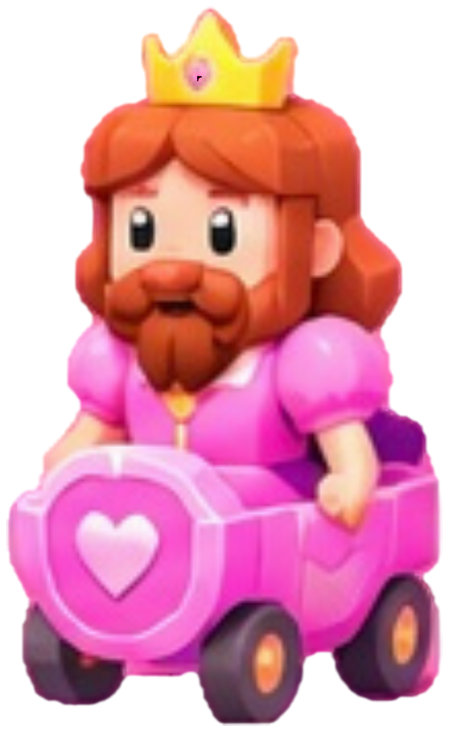
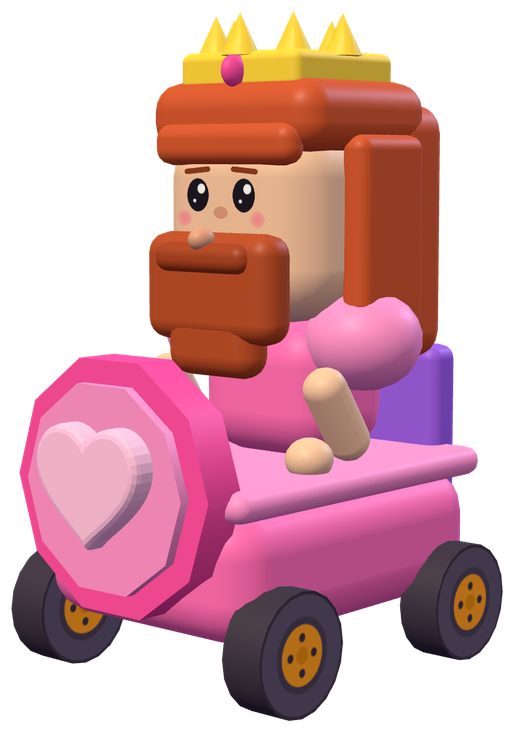
Block Racers: character makeover (Conejo Malo, Chadrilla, Princess Tagliani, Coca-Cola Ice Racer)
- Bunny -> CONEJO MALO: evil crazy face (bloodshot mismatched eyes, dark
  circles, droopy angry lids, V brows, crooked sharp-toothed grin with a gold
  tooth, stitched scar), dirtier fur and one bent ear
- Gorilla -> CHADRILLA: spiky green hair
- Princess -> PRINCESS TAGLIANI (name only)
- Ice Racer: Coca-Cola logo decals on the car sides and front, and always
  chugging a contour Coca-Cola bottle held to its mouth (animated sips);
  bottle is added after size normalization so the kart keeps its size
- Selection cards (TV and phone) now use renders of the new 3D models;
  long names shrink to fit
- Lobster script font (OFL) bundled for the logo text
- Version badge v6

Claude-Session: https://claude.ai/code/session_01TGnJyy4oqeZFghcKrCu8bs

diff --git a/game/public/tv/js/models.js b/game/public/tv/js/models.js
@@ -70,17 +70,64 @@ function blush(c, x, y, r) {
 }
 
 const FACES = {
+  // CONEJO MALO: ojos de loco (uno mas grande), venitas rojas, ojeras, parpados caidos
+  // en V, cejas de enojado, sonrisa torcida con dientes filosos y una cicatriz
   rabbit: () => faceTexture((c) => {
-    eye(c, 76, 134, 36, 44);
-    eye(c, 180, 134, 36, 44);
-    blush(c, 44, 190, 30); blush(c, 212, 190, 30);
-    c.fillStyle = '#ff7fa0';
-    c.beginPath(); c.ellipse(128, 176, 14, 10, 0, 0, Math.PI * 2); c.fill();
-    // boca abierta sonriente con lengua
-    c.fillStyle = '#5a1b2a';
-    c.beginPath(); c.moveTo(102, 194); c.quadraticCurveTo(128, 244, 154, 194); c.closePath(); c.fill();
-    c.fillStyle = '#ff6f8c';
-    c.beginPath(); c.ellipse(128, 222, 13, 9, 0, 0, Math.PI * 2); c.fill();
+    const FUR = '#EAE4DF';
+    [[76, 136, 1], [180, 134, -1]].forEach(([x, y]) => {
+      const g = c.createRadialGradient(x, y + 16, 8, x, y + 16, 58);
+      g.addColorStop(0, 'rgba(90,40,110,0.75)'); g.addColorStop(1, 'rgba(90,40,110,0)');
+      c.fillStyle = g; c.beginPath(); c.ellipse(x, y + 16, 58, 54, 0, 0, Math.PI * 2); c.fill();
+    });
+    const badEye = (x, y, rx, ry, iris, side) => {
+      c.save();
+      c.beginPath(); c.ellipse(x, y, rx, ry, 0, 0, Math.PI * 2); c.clip();
+      c.fillStyle = '#FFF4CF'; c.fillRect(x - rx, y - ry, rx * 2, ry * 2);
+      c.strokeStyle = '#D8323C'; c.lineWidth = 2.4;
+      for (let i = 0; i < 9; i++) {
+        const a = (i / 9) * Math.PI * 2 + 0.3, r0 = rx * 1.05, r1 = rx * (0.45 + (i % 3) * 0.1);
+        c.beginPath(); c.moveTo(x + Math.cos(a) * r0, y + Math.sin(a) * r0 * (ry / rx));
+        c.quadraticCurveTo(x + Math.cos(a + 0.2) * (r0 + r1) / 2, y + Math.sin(a + 0.25) * (r0 + r1) / 2 * (ry / rx), x + Math.cos(a) * r1, y + Math.sin(a) * r1 * (ry / rx));
+        c.stroke();
+      }
+      c.fillStyle = '#C8102E'; c.beginPath(); c.arc(x + side * rx * 0.12, y + ry * 0.1, rx * iris, 0, Math.PI * 2); c.fill();
+      c.fillStyle = '#10080c'; c.beginPath(); c.arc(x + side * rx * 0.12, y + ry * 0.1, rx * iris * 0.28, 0, Math.PI * 2); c.fill();
+      c.fillStyle = '#ffffff'; c.beginPath(); c.arc(x + side * rx * 0.12 - rx * 0.12, y - ry * 0.05, rx * 0.07, 0, Math.PI * 2); c.fill();
+      // parpado de arriba caido, mas bajo del lado de adentro (mirada de malo)
+      c.fillStyle = FUR;
+      c.beginPath();
+      const inner = side > 0 ? x + rx : x - rx, outer = side > 0 ? x - rx : x + rx;
+      c.moveTo(outer, y - ry * 0.3); c.lineTo(inner, y + ry * 0.12); c.lineTo(inner, y - ry - 2); c.lineTo(outer, y - ry - 2); c.closePath(); c.fill();
+      c.restore();
+      c.strokeStyle = '#2a1a22'; c.lineWidth = 5; c.lineCap = 'round';
+      c.beginPath(); c.moveTo(outer, y - ry * 0.3); c.lineTo(inner, y + ry * 0.12); c.stroke();
+      c.lineWidth = 4; c.beginPath(); c.ellipse(x, y, rx, ry, 0, 0, Math.PI * 2); c.stroke();
+    };
+    badEye(76, 132, 40, 42, 0.36, 1);
+    badEye(182, 130, 30, 33, 0.3, -1);
+    // cejas gruesas en V
+    c.strokeStyle = '#2a1a22'; c.lineWidth = 13; c.lineCap = 'round';
+    c.beginPath(); c.moveTo(34, 74); c.lineTo(112, 100); c.stroke();
+    c.beginPath(); c.moveTo(222, 78); c.lineTo(150, 98); c.stroke();
+    // nariz
+    c.fillStyle = '#E86A8E';
+    c.beginPath(); c.moveTo(116, 170); c.lineTo(140, 170); c.lineTo(128, 184); c.closePath(); c.fill();
+    // sonrisa torcida con dientes filosos
+    c.fillStyle = '#2B0F18';
+    c.beginPath(); c.moveTo(70, 196); c.quadraticCurveTo(120, 214, 194, 188); c.quadraticCurveTo(150, 246, 96, 226); c.closePath(); c.fill();
+    c.fillStyle = '#FFFBEA';
+    for (let i = 0; i < 7; i++) {
+      const t0 = i / 7, t1 = (i + 1) / 7;
+      const px = (t) => 70 + (194 - 70) * t, py = (t) => 196 + (188 - 196) * t + Math.sin(t * Math.PI) * 10;
+      c.beginPath(); c.moveTo(px(t0), py(t0)); c.lineTo(px(t1), py(t1)); c.lineTo((px(t0) + px(t1)) / 2, py(t0) + 16); c.closePath(); c.fill();
+    }
+    c.fillStyle = '#FFD93D'; // diente de oro
+    c.beginPath(); c.moveTo(141, 202); c.lineTo(158, 199); c.lineTo(150, 215); c.closePath(); c.fill();
+    // cicatriz con puntos
+    c.strokeStyle = '#C0506A'; c.lineWidth = 5;
+    c.beginPath(); c.moveTo(200, 164); c.lineTo(240, 212); c.stroke();
+    c.lineWidth = 3;
+    for (let i = 0; i < 4; i++) { const t = 0.15 + i * 0.23, x = 200 + 40 * t, y = 164 + 48 * t; c.beginPath(); c.moveTo(x - 9, y + 7); c.lineTo(x + 9, y - 7); c.stroke(); }
   }),
   gorilla: () => faceTexture((c) => {
     // hocico: fosas nasales + sonrisa canchera
@@ -122,6 +169,54 @@ const FACES = {
     roundRect(c, 104, 190, 48, 12, 6); c.fill();
   }),
 };
+
+// ---------- Coca-Cola: logo pintado (letra cursiva + cinta) y botella de vidrio ----------
+function cokeLogo() {
+  return canvasTexture(512, 144, (c, w, h) => {
+    c.fillStyle = '#E4002B'; roundRect(c, 0, 0, w, h, 26); c.fill();
+    c.strokeStyle = '#ffffff'; c.lineWidth = 6; roundRect(c, 8, 8, w - 16, h - 16, 20); c.stroke();
+    c.fillStyle = '#ffffff';
+    c.font = '92px "Lobster", "Brush Script MT", cursive';
+    c.textAlign = 'center'; c.textBaseline = 'middle';
+    c.fillText('Coca-Cola', w / 2, h / 2 - 8);
+    // cinta blanca ondulada abajo
+    c.beginPath(); c.moveTo(60, h - 30);
+    c.bezierCurveTo(180, h - 60, 300, h - 4, 452, h - 36);
+    c.lineTo(452, h - 26); c.bezierCurveTo(300, h + 6, 180, h - 48, 60, h - 22); c.closePath(); c.fill();
+  });
+}
+function cokeLabel() {
+  const t = canvasTexture(512, 96, (c, w, h) => {
+    c.fillStyle = '#E4002B'; c.fillRect(0, 0, w, h);
+    c.fillStyle = '#ffffff';
+    c.font = '60px "Lobster", "Brush Script MT", cursive';
+    c.textAlign = 'center'; c.textBaseline = 'middle';
+    c.fillText('Coca-Cola', w * 0.25, h / 2);
+    c.fillText('Coca-Cola', w * 0.75, h / 2);
+  });
+  return t;
+}
+function cokeBottle(riderGroup) {
+  // botella contorneada: el pico en la boca del robot y el fondo levantado hacia
+  // adelante y al costado (se la esta tomando). El grupo gira sobre la boca para los tragos.
+  const mouth = new THREE.Vector3(54, 286, 4), base = new THREE.Vector3(114, 390, 30);
+  const g = new THREE.Group();
+  const glass = new THREE.Mesh(lathe([[0, 0], [23, 0], [26, 6], [26, 24], [21, 38], [25, 54], [26, 66], [19, 84], [11, 100], [9, 116], [11, 120], [0, 121]], 14),
+    new THREE.MeshStandardMaterial({ color: '#4a1410', roughness: 0.12, metalness: 0.15, emissive: '#200404' }));
+  glass.castShadow = true;
+  const label = new THREE.Mesh(new THREE.CylinderGeometry(27.5, 27.5, 24, 14, 1, true), new THREE.MeshStandardMaterial({ map: cokeLabel(), roughness: 0.4 }));
+  label.position.y = 58;
+  const inner = new THREE.Group();
+  inner.add(glass, label);
+  inner.position.y = -121;
+  g.add(inner);
+  g.position.copy(mouth);
+  g.quaternion.setFromUnitVectors(new THREE.Vector3(0, 1, 0), mouth.clone().sub(base).normalize());
+  g.scale.setScalar(1.3);
+  g.userData.baseQ = g.quaternion.clone();
+  riderGroup.add(g);
+  return { bottle: g };
+}
 
 // ---------- ruedas: 4 cilindros en UNA malla; el giro es la textura de la llanta rotando ----------
 function wheelTexture(tire, hub, rim) {
@@ -236,16 +331,19 @@ const BUILDERS = {
       car.ball(22, 88, 44, i % 2 ? GR : GRD, -178 + Math.sin(a) * 40, 196 + Math.cos(a) * 30, tilt * 58, tilt, 0, a);
     });
     // conejo: cabeza cubica grande apoyada sobre la zanahoria, patitas adelante
-    const W = '#FFF8F2', PK = '#FF9EC0';
+    const W = '#EAE4DF', PK = '#E77FA0';
     rider.box(110, 70, 90, W, -20, 196, 0);
     rider.ball(24, 18, 24, W, 44, 196, 44);
     rider.ball(24, 18, 24, W, 44, 196, -44);
     rider.box(176, 156, 152, W, -14, 288, 0, 0, 0, 0, 0.3);
     rider.ball(26, 26, 26, W, -104, 236, 0);
-    [1, -1].forEach((s) => {
-      rider.box(50, 150, 32, W, -26, 420, s * 46, s * 0.24, 0, -0.1, 0.5);
-      rider.box(28, 104, 6, PK, -9, 414, s * 46, s * 0.24, 0, -0.1, 0.5);
-    });
+    // una oreja parada y la otra doblada para adelante (mordida en la punta)
+    rider.box(50, 150, 32, W, -26, 420, 46, 0.24, 0, -0.1, 0.5);
+    rider.box(28, 104, 6, PK, -9, 414, 46, 0.24, 0, -0.1, 0.5);
+    rider.box(50, 84, 32, W, -26, 392, -46, -0.24, 0, -0.1, 0.5);
+    rider.box(28, 60, 6, PK, -9, 390, -46, -0.24, 0, -0.1, 0.5);
+    rider.box(44, 76, 30, W, 4, 424, -56, -0.24, 0, -1.9, 0.5);
+    rider.box(26, 52, 6, PK, 6, 414, -56, -0.24, 0, -1.9, 0.5);
     return {
       car, rider, face: { tex: FACES.rabbit(), w: 150, h: 140, x: 62, y: 282, z: 0 },
       wheels: { spots: [[104, 90], [104, -90], [-104, 90], [-104, -90]], r: 44, w: 32, tire: '#24222c', hub: '#F4E3C8', rim: '#3a3642' },
@@ -272,7 +370,16 @@ const BUILDERS = {
     rider.box(128, 88, 22, TAN, 36, 284, 0, 0, 0, 0, 0.45);
     rider.box(110, 60, 50, TAN2, 52, 258, 0, 0, 0, 0, 0.5);
     [1, -1].forEach((s) => rider.ball(20, 26, 14, '#B07B55', -28, 292, s * 80));
-    [-0.45, 0, 0.45].forEach((a, i) => rider.cone(15, 34, DK, -44 + i * 8, 372, a * 56, a, 0, 0.35));
+    // CHADRILLA: pelo verde parado y desordenado
+    const HG = '#3BE36B', HG2 = '#1FB04A';
+    rider.box(150, 34, 116, HG2, -26, 372, 0, 0, 0, 0, 0.4);
+    let hk = 0;
+    [-66, -36, -6, 24].forEach((hx, ix) => [-54, -18, 18, 54].forEach((hz) => {
+      const tiltX = hz / 54 * 0.45, tiltZ = 0.25 + ix * 0.12;
+      rider.cone(20 + (hk % 3) * 3, 62 + ((hk * 7) % 5) * 9, hk % 2 ? HG : HG2, hx, 404, hz, tiltX, 0, tiltZ);
+      hk++;
+    }));
+    void DK;
     // anteojos azules grandes
     [1, -1].forEach((s) => {
       rider.box(64, 44, 14, '#2F6BFF', 52, 308, s * 34, 0, 0, 0, 0.3);
@@ -337,16 +444,23 @@ const BUILDERS = {
     ice.sharpBox(126, 92, 30, I4, -118, 150, 0);
     // robot de cristal
     ice.sharpBox(120, 92, 92, I1, -40, 196, 0);
-    [1, -1].forEach((s) => {
-      ice.sharpBox(40, 40, 96, I2, 6, 186, s * 72, 0, 0, -0.4);
-      ice.sharpBox(42, 38, 42, I3, 50, 162, s * 68);
-    });
+    ice.sharpBox(40, 40, 96, I2, 6, 186, -72, 0, 0, -0.4);
+    ice.sharpBox(42, 38, 42, I3, 50, 162, -68);
+    // el otro brazo levantado: siempre con la botella de Coca-Cola en la boca
+    ice.sharpBox(40, 40, 164, I2, 45, 298, 67, 0, 0.34, 0.81);
+    ice.sharpBox(44, 44, 44, I3, 100, 356, 48);
     ice.add(new RoundedBoxGeometry(134, 124, 140, 2, 22), I3, -24, 300, 0);
     [1, -1].forEach((s) => ice.cyl(16, 16, 16, I4, -24, 302, s * 74, Math.PI / 2, 0, 0, 10));
     // visor oscuro ancho
     rider.box(132, 70, 20, '#1F3FB0', 38, 304, 0, 0, 0, 0, 0.45);
     return {
       car: null, rider, ice, face: { tex: FACES.ice(), w: 128, h: 72, x: 48, y: 304, z: 0 },
+      decals: [
+        { tex: cokeLogo(), w: 200, h: 54, x: 0, y: 74, z: 89.5, ry: 0 },
+        { tex: cokeLogo(), w: 200, h: 54, x: 0, y: 74, z: -89.5, ry: Math.PI },
+        { tex: cokeLogo(), w: 150, h: 42, x: 126, y: 70, z: 0, ry: Math.PI / 2 },
+      ],
+      extra: cokeBottle,
       wheels: { spots: [[92, 90], [92, -90], [-92, 90], [-92, -90]], r: 42, w: 30, tire: '#2F5FE0', hub: '#CFF4FF', rim: '#3a6ff0' },
     };
   },
@@ -400,6 +514,13 @@ export function buildCharacterModel(character) {
     plane.rotation.y = Math.PI / 2;
     riderGroup.add(plane);
   });
+  (d.decals || []).forEach((f) => {
+    const dm = new THREE.MeshStandardMaterial({ map: f.tex, roughness: 0.4, polygonOffset: true, polygonOffsetFactor: -4 });
+    const plane = new THREE.Mesh(new THREE.PlaneGeometry(f.w, f.h), dm);
+    plane.position.set(f.x, f.y, f.z);
+    plane.rotation.y = f.ry || 0;
+    roll.add(plane);
+  });
   const wd = d.wheels;
   const wheels = buildWheels(wd.spots, wd.r, wd.w, wd.tire, wd.hub, wd.rim);
   roll.add(wheels);
@@ -410,5 +531,7 @@ export function buildCharacterModel(character) {
   roll.scale.setScalar(k);
   roll.position.y = -box.min.y * k;
   roll.userData.baseY = roll.position.y;
-  return { root, roll, riderGroup, wheels, mats, scale: k };
+  // extras (la botella) despues de normalizar: no cambian el tamaño del kart
+  const extra = d.extra ? d.extra(riderGroup) : {};
+  return { root, roll, riderGroup, wheels, mats, scale: k, bottle: extra.bottle || null };
 }

diff --git a/game/public/controller/index.html b/game/public/controller/index.html
@@ -34,7 +34,8 @@
     display:flex; flex-direction:column; align-items:center; justify-content:flex-end; box-shadow:0 6px 0 rgba(0,0,0,.35), inset 0 4px 0 rgba(255,255,255,.35); }
   #selCard::before { content:''; position:absolute; top:0; right:0; bottom:0; left:0; background:radial-gradient(circle at 50% 30%, rgba(255,255,255,.45), rgba(255,255,255,0) 60%); }
   #selImg { position:absolute; bottom:58px; height:calc(100% - 80px); max-width:92%; object-fit:contain; left:50%; transform:translateX(-50%); filter:drop-shadow(0 6px 4px rgba(0,0,0,.35)); }
-  #selName { position:relative; font-size:20px; line-height:1; margin-bottom:4px; }
+  #selName { position:relative; font-size:20px; line-height:1; margin-bottom:4px; text-align:center; padding:0 6px; }
+  #selName.long { font-size:16px; }
   #selPower { position:relative; width:100%; text-align:center; font-size:13px; padding:5px 0 7px; background:rgba(32,32,48,.55); }
   .selArrow { position:absolute; top:40%; font-size:26px; color:var(--yellow); z-index:2; }
   #selHint { margin-top:8px; font-family:'Fredoka', sans-serif; font-weight:600; font-size:13px; text-align:center; opacity:.9; }
@@ -117,9 +118,9 @@
 <script src="/socket.io/socket.io.js"></script>
 <script>
   const INFO = {
-    rabbit: { name: 'BUNNY', power: 'GIANT CARROT', sprite: 'bunny', icon: 'pw_carrot', card: ['#FFB23E', '#FF7A1A'] },
-    gorilla: { name: 'BANANA GORILLA', power: 'BANANA PEEL', sprite: 'gorilla', icon: 'pw_gorilla_banana', card: ['#FFE45C', '#FFC21A'] },
-    princess: { name: 'PRINCESS ROSE', power: 'POISON FLOWERS', sprite: 'princess', icon: 'pw_flower', card: ['#FF8FD0', '#F04FA8'] },
+    rabbit: { name: 'CONEJO MALO', power: 'GIANT CARROT', sprite: 'bunny', icon: 'pw_carrot', card: ['#FFB23E', '#FF7A1A'] },
+    gorilla: { name: 'CHADRILLA', power: 'BANANA PEEL', sprite: 'gorilla', icon: 'pw_gorilla_banana', card: ['#FFE45C', '#FFC21A'] },
+    princess: { name: 'PRINCESS TAGLIANI', power: 'POISON FLOWERS', sprite: 'princess', icon: 'pw_flower', card: ['#FF8FD0', '#F04FA8'] },
     ice: { name: 'ICE RACER', power: 'FREEZE TRACK', sprite: 'ice', icon: 'pw_freeze', card: ['#6FC2FF', '#2F7BFF'] },
   };
   const ITEM_HTML = {
@@ -202,6 +203,7 @@
         $('selImg').src = '/assets/chars/' + info.sprite + '_right.png';
         $('selCard').style.background = 'linear-gradient(180deg,' + info.card[0] + ',' + info.card[1] + ')';
         $('selName').textContent = info.name;
+        $('selName').classList.toggle('long', info.name.length > 12);
         $('selPower').textContent = info.power;
         last.char = s.character;
       }

diff --git a/game/public/tv/index.html b/game/public/tv/index.html
@@ -7,6 +7,7 @@
 <link rel="preload" href="/assets/fonts/LilitaOne.woff2" as="font" type="font/woff2" crossorigin />
 <style>
   @font-face { font-family: 'Lilita One'; src: url('/assets/fonts/LilitaOne.woff2') format('woff2'); font-display: block; }
+  @font-face { font-family: 'Lobster'; src: url('/assets/fonts/Lobster.woff2') format('woff2'); font-display: swap; }
   @font-face { font-family: 'Fredoka'; src: url('/assets/fonts/Fredoka-600.woff2') format('woff2'); font-weight: 300 700; font-display: swap; }
   :root {
     --red:#FF4B5C; --orange:#FF9F1C; --yellow:#FFD93D; --green:#55D66A; --turq:#3BD9D0;
@@ -38,7 +39,8 @@
     display:flex; flex-direction:column; align-items:center; justify-content:flex-end; }
   .ccard::before { content:''; position:absolute; top:0; right:0; bottom:0; left:0; background:radial-gradient(circle at 50% 30%, rgba(255,255,255,.45), rgba(255,255,255,0) 60%); }
   .ccard img { position:absolute; bottom:9.3vh; left:50%; transform:translateX(-50%); height:23vh; filter:drop-shadow(0 .8vh .6vh rgba(0,0,0,.35)); }
-  .ccard .cname { position:relative; font-size:3.1vh; line-height:1; margin-bottom:.4vh; }
+  .ccard .cname { position:relative; font-size:3.1vh; line-height:1; margin-bottom:.4vh; text-align:center; padding:0 .6vh; }
+  .ccard .cname.long { font-size:2.3vh; }
   .ccard .cpower { position:relative; width:100%; text-align:center; font-size:1.7vh; padding:.7vh 0 .9vh; background:rgba(32,32,48,.55); letter-spacing:.05em; }
   .ccard .holders { position:absolute; top:1vh; left:0; right:0; display:flex; justify-content:center; gap:.5vw; }
   .chip { font-size:2vh; padding:.25vh 1vh; border-radius:99px; border:.35vh solid var(--black); color:var(--white); }
@@ -167,7 +169,7 @@
   <div id="url"></div>
   <div id="qbadge"></div>
   <div id="loading"><img src="/assets/ui/logo.png" alt="" /><div class="bar"><div class="fill" id="loadFill"></div></div><div id="bootErr"></div></div>
-  <div id="ver">v5</div>
+  <div id="ver">v6</div>
 </div>
 
 <script>

diff --git a/game/public/tv/js/core.js b/game/public/tv/js/core.js
@@ -11,9 +11,9 @@ export const RAINBOW = [PAL.red, PAL.orange, PAL.yellow, PAL.green, PAL.blue, PA
 
 export const CHAR_ORDER = ['rabbit', 'gorilla', 'princess', 'ice'];
 export const CHAR_INFO = {
-  rabbit: { name: 'BUNNY', full: 'BUNNY', power: 'GIANT CARROT', powerIcon: 'pw_carrot', card: ['#FFB23E', '#FF7A1A'], sprite: 'bunny' },
-  gorilla: { name: 'GORILLA', full: 'BANANA GORILLA', power: 'BANANA PEEL', powerIcon: 'pw_gorilla_banana', card: ['#FFE45C', '#FFC21A'], sprite: 'gorilla' },
-  princess: { name: 'PRINCESS', full: 'PRINCESS ROSE', power: 'POISON FLOWERS', powerIcon: 'pw_flower', card: ['#FF8FD0', '#F04FA8'], sprite: 'princess' },
+  rabbit: { name: 'CONEJO MALO', full: 'CONEJO MALO', power: 'GIANT CARROT', powerIcon: 'pw_carrot', card: ['#FFB23E', '#FF7A1A'], sprite: 'bunny' },
+  gorilla: { name: 'CHADRILLA', full: 'CHADRILLA', power: 'BANANA PEEL', powerIcon: 'pw_gorilla_banana', card: ['#FFE45C', '#FFC21A'], sprite: 'gorilla' },
+  princess: { name: 'PRINCESS TAGLIANI', full: 'PRINCESS TAGLIANI', power: 'POISON FLOWERS', powerIcon: 'pw_flower', card: ['#FF8FD0', '#F04FA8'], sprite: 'princess' },
   ice: { name: 'ICE RACER', full: 'ICE RACER', power: 'FREEZE TRACK', powerIcon: 'pw_freeze', card: ['#6FC2FF', '#2F7BFF'], sprite: 'ice' },
 };
 

diff --git a/game/public/tv/js/karts.js b/game/public/tv/js/karts.js
@@ -4,6 +4,7 @@ import { tex } from './assets.js';
 import { buildCharacterModel, MODEL_H } from './models.js';
 
 export const KART_H = 370;
+const _sipQ = new THREE.Quaternion(), _sipAxis = new THREE.Vector3(0, 0, 1);
 // color de las piernas cuando el personaje se baja del auto (modo batalla)
 const LEG_COLOR = { rabbit: '#f4f1ea', gorilla: '#5a3a26', princess: '#f06fb5', ice: '#8fd6ff' };
 const FALL_DURATION = 0.75;
@@ -171,6 +172,11 @@ class Kart {
     this.steer = p.steer || 0;
     this.angle = w.angle;
     const { root, roll, riderGroup, wheels } = this.model;
+    // el de hielo siempre esta tomando: la botella sube y baja (tragos)
+    if (this.model.bottle) {
+      const b = this.model.bottle;
+      b.quaternion.copy(b.userData.baseQ).multiply(_sipQ.setFromAxisAngle(_sipAxis, Math.max(0, Math.sin(t * 2.6 + this.slot)) * 0.22));
+    }
     // parpadeo mientras es invulnerable (recien golpeado en batalla)
     const blink = p.invuln && Math.floor(t * 12) % 2 === 0;
     this.group.visible = !blink;

diff --git a/game/public/tv/js/hud.js b/game/public/tv/js/hud.js
@@ -33,7 +33,7 @@ export function initSelect() {
     card.style.background = `linear-gradient(180deg, ${info.card[0]}, ${info.card[1]})`;
     card.innerHTML = `<div class="holders" id="holders-${ch}"></div>
       <img src="/assets/chars/${info.sprite}_right.png" alt="">
-      <div class="cname outline">${info.name}</div>
+      <div class="cname outline${info.name.length > 12 ? ' long' : ''}">${info.name}</div>
       <div class="cpower outline">${info.power}</div>`;
     cc.appendChild(card);
   });

diff --git a/game/public/tv/js/main.js b/game/public/tv/js/main.js
@@ -13,7 +13,7 @@ async function boot() {
   hud.setLoading(0.1, false);
   if (document.fonts && document.fonts.load) {
     await Promise.race([
-      Promise.all([document.fonts.load('100px "Lilita One"'), document.fonts.load('600 40px "Fredoka"')]).catch(() => null),
+      Promise.all([document.fonts.load('100px "Lilita One"'), document.fonts.load('600 40px "Fredoka"'), document.fonts.load('60px "Lobster"')]).catch(() => null),
       new Promise((r) => setTimeout(r, 4000)),
     ]);
   }
